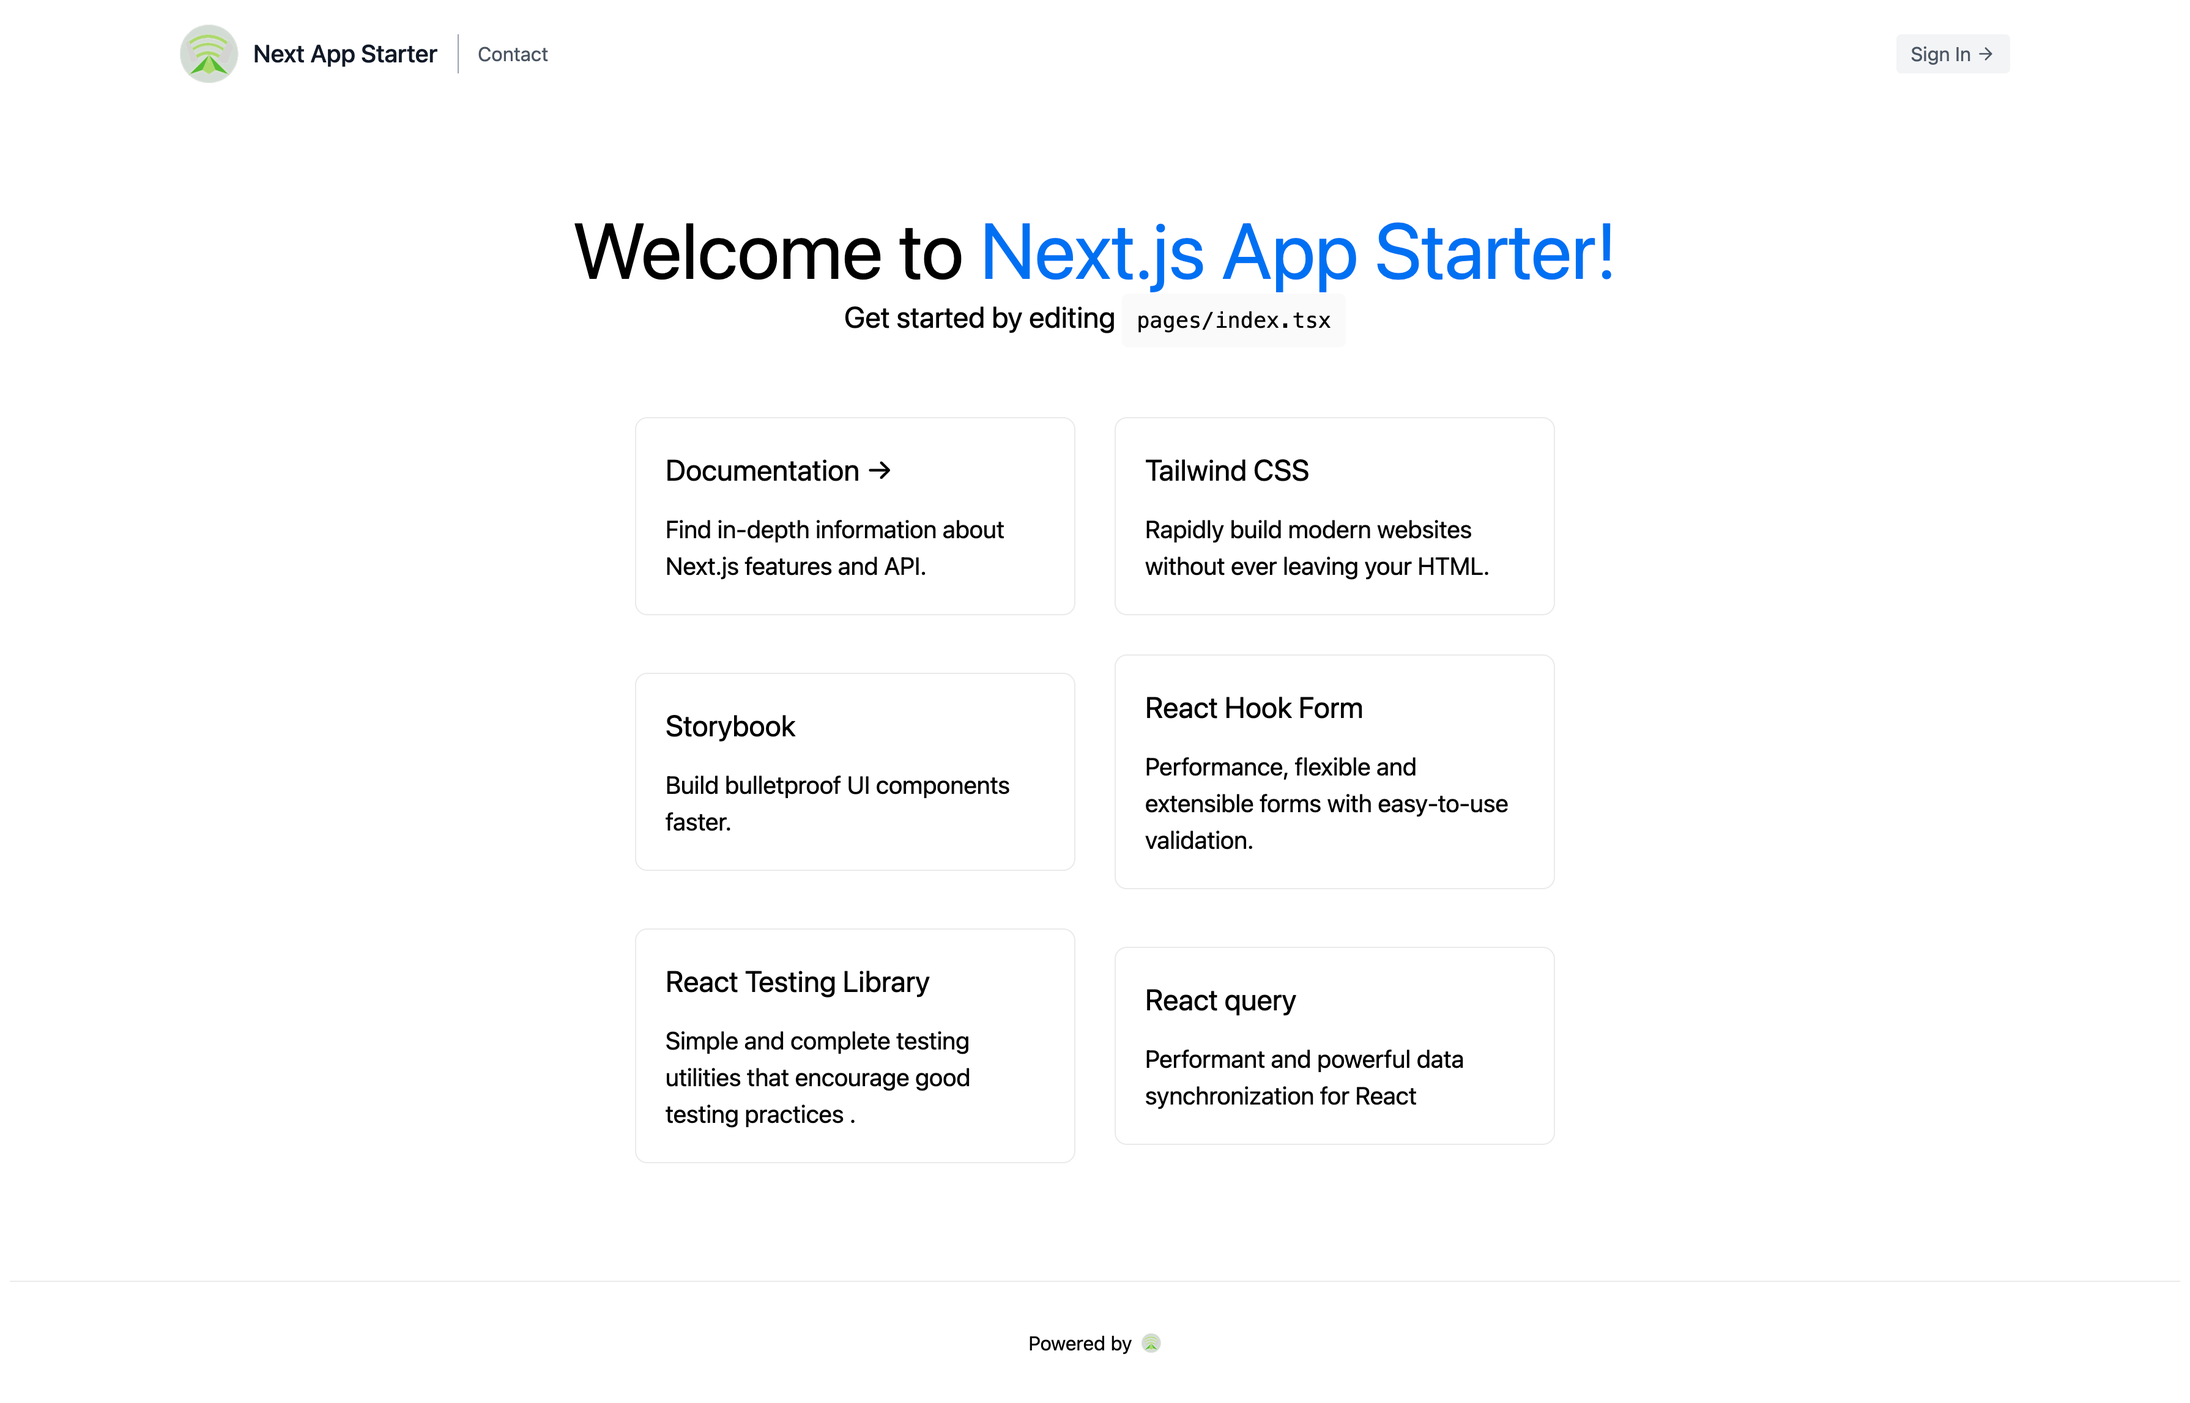
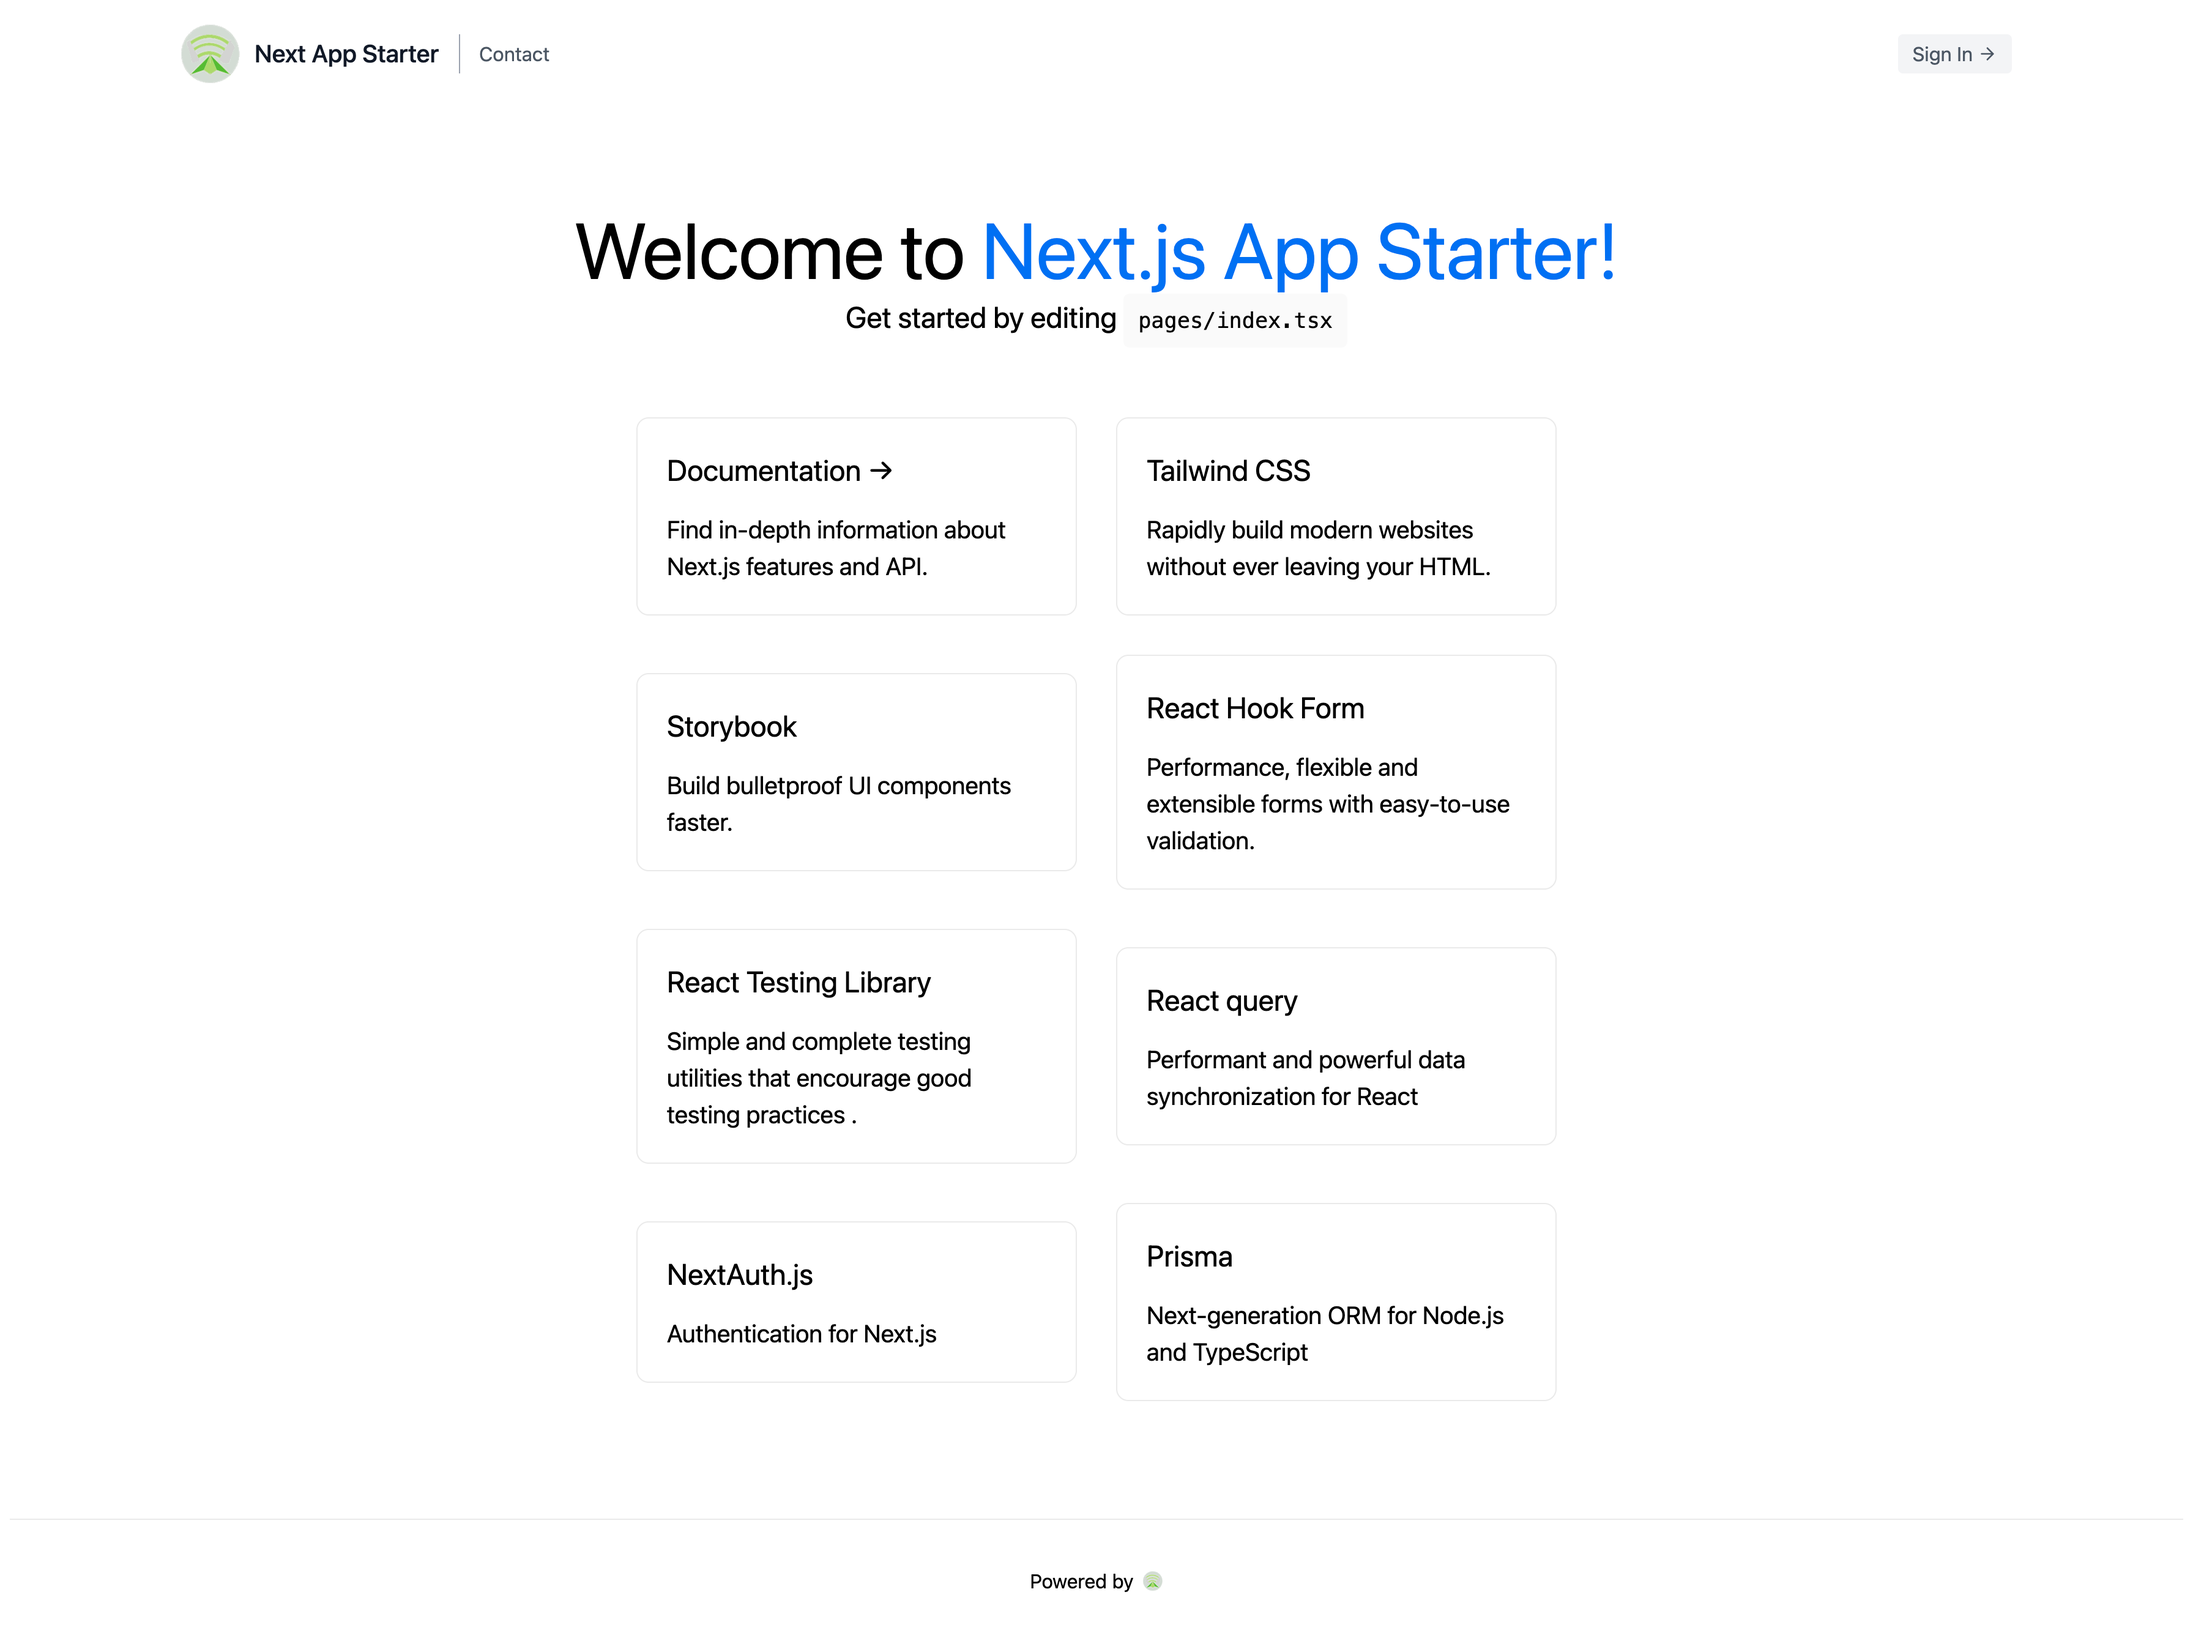
docs(readme): add prisma and next-auth

diff --git a/README.md b/README.md
@@ -15,6 +15,8 @@
 
 - [NextJS: the React Framework for Production](https://nextjs.org/docs)
 - [Tailwindcss: rapidly build modern websites without ever leaving your HTML](https://tailwindcss.com/)
+- [Prisma: next-generation ORM for Node.js and TypeScrip](https://www.prisma.io/)
+- [NextAuth.js: Authentication for Next.js](https://next-auth.js.org/)
 - [Storybook: build bulletproof UI components faster](https://storybook.js.org)
 - [React-hook-form: performance, flexible and extensible forms with easy-to-use validation](https://www.react-hook-form.com/)
 - [react-testing: simple and complete testing utilities that encourage good testing practices](https://testing-library.com/)
@@ -28,6 +30,8 @@ yarn install
 ```
 
 ## Usage
+
+Create .env.local base on .env.example then run below command
 
 ```sh
 yarn dev
